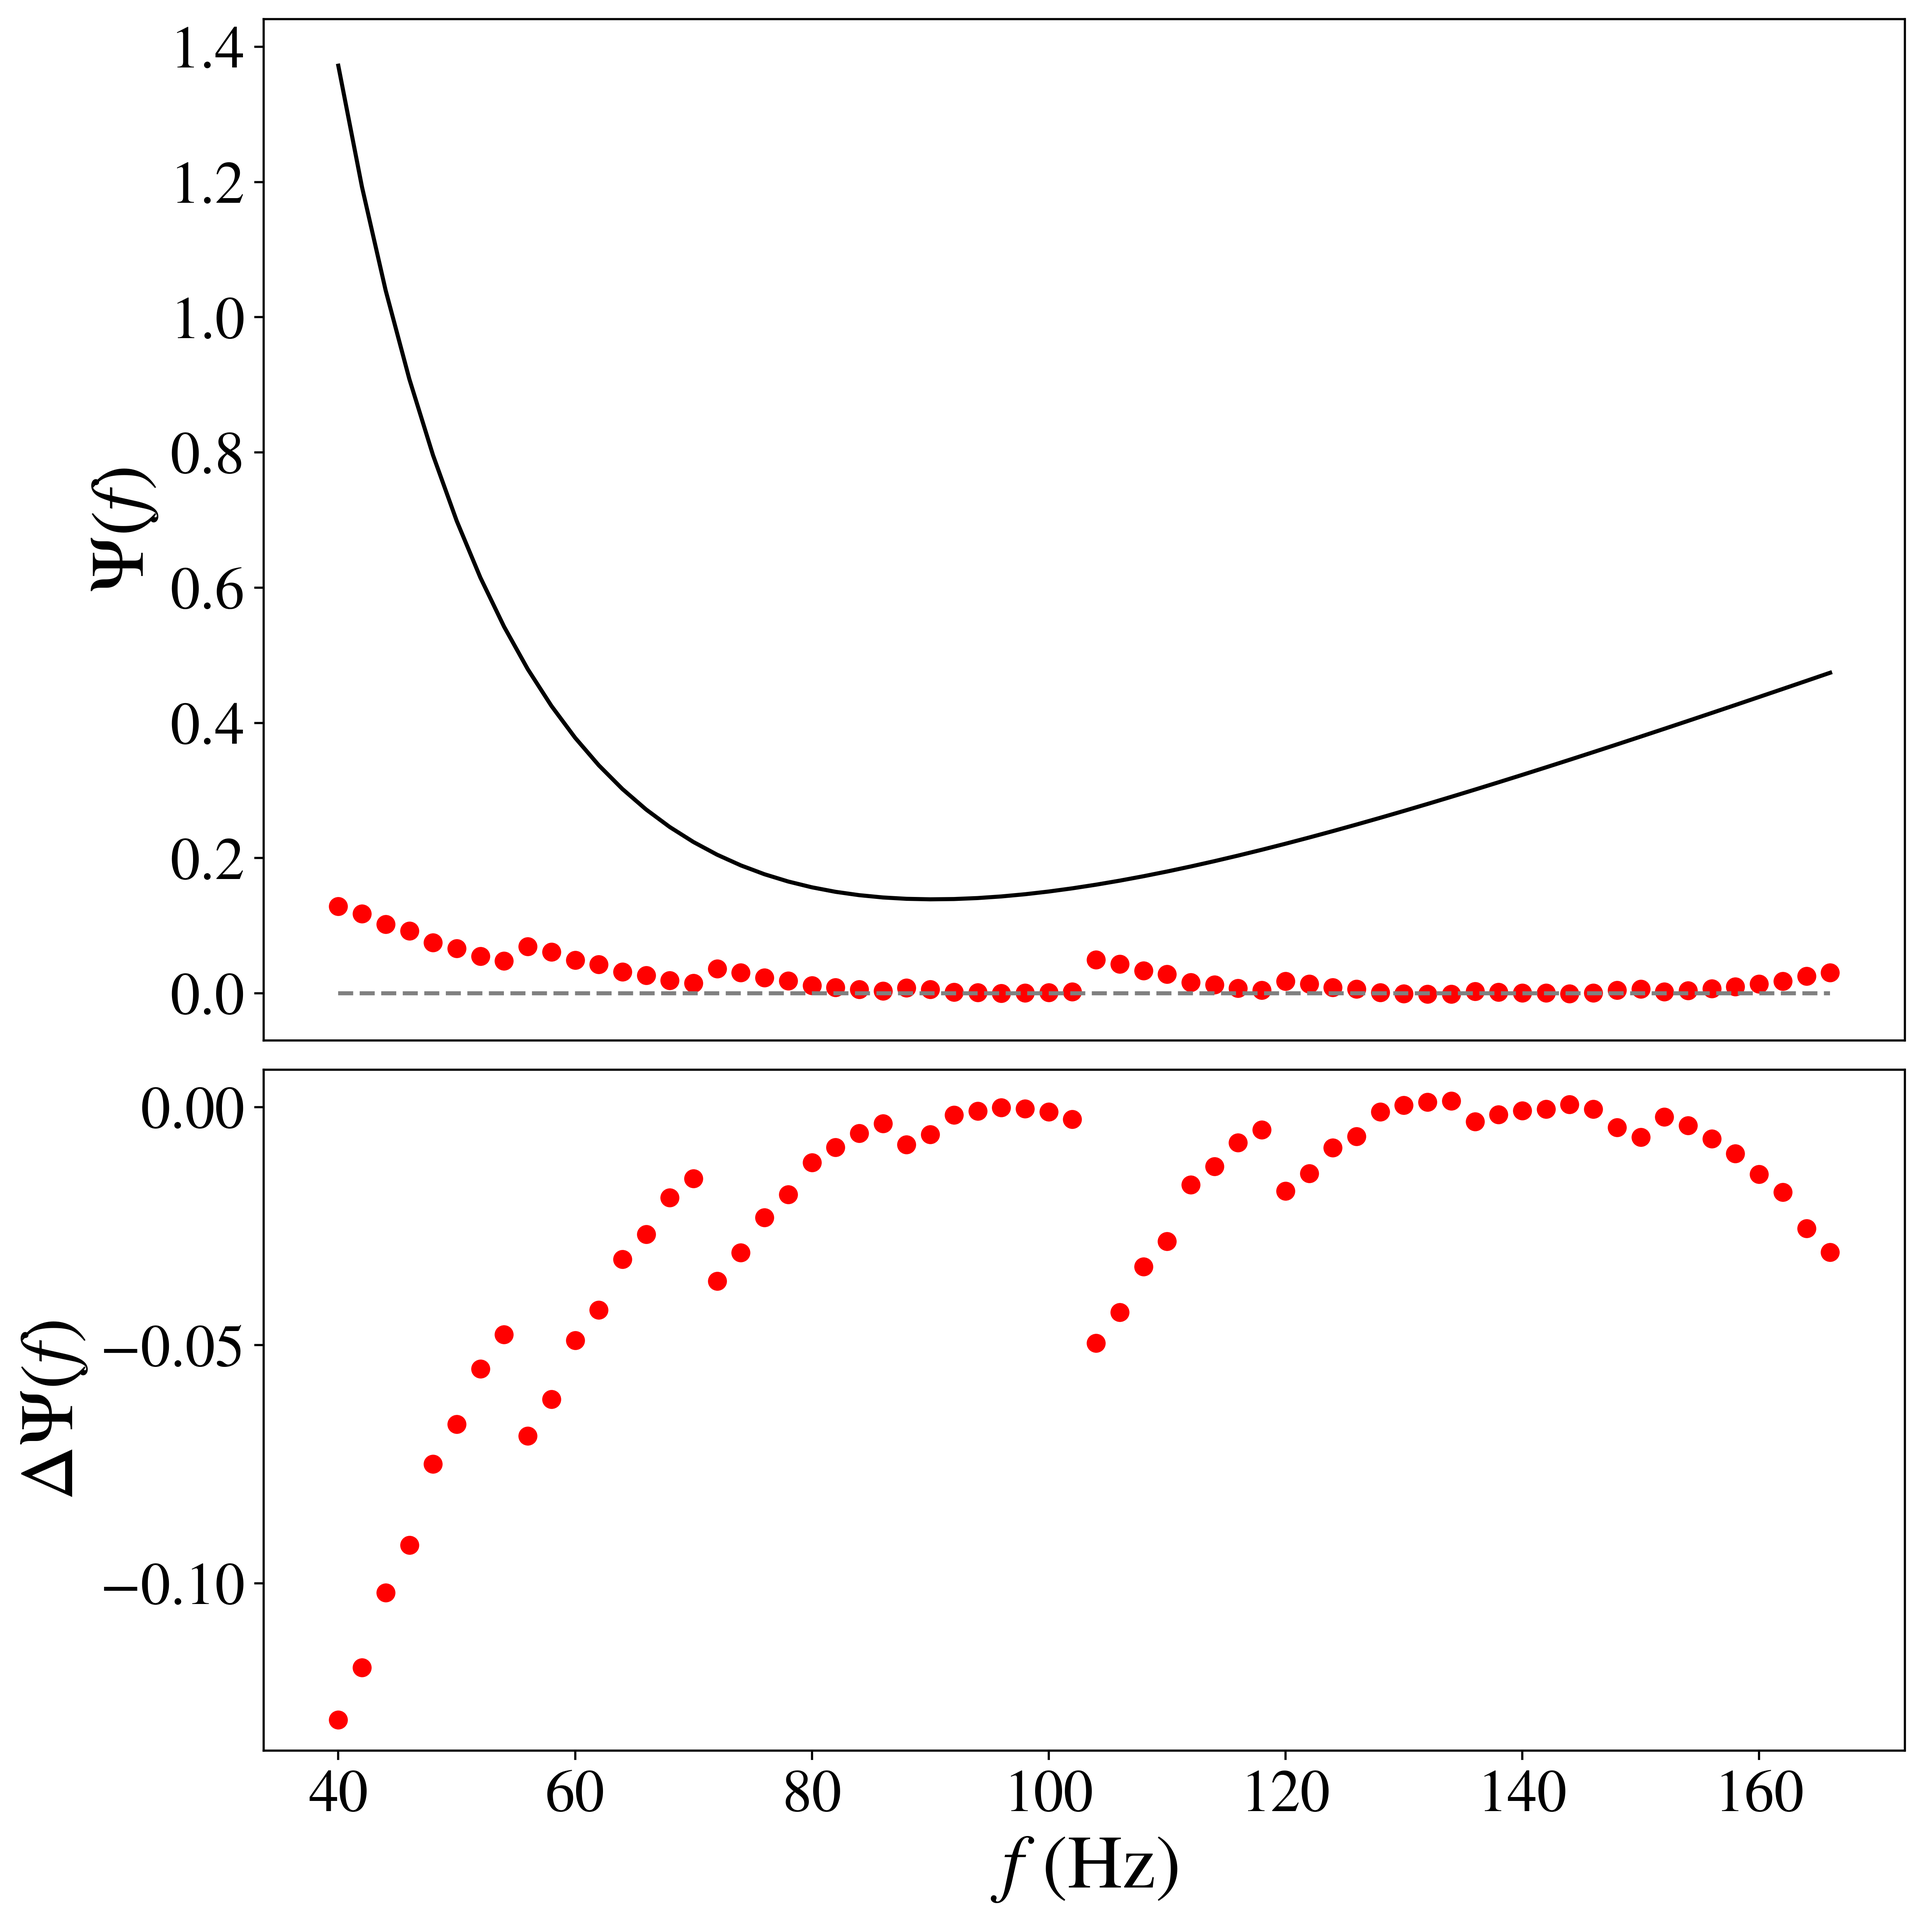
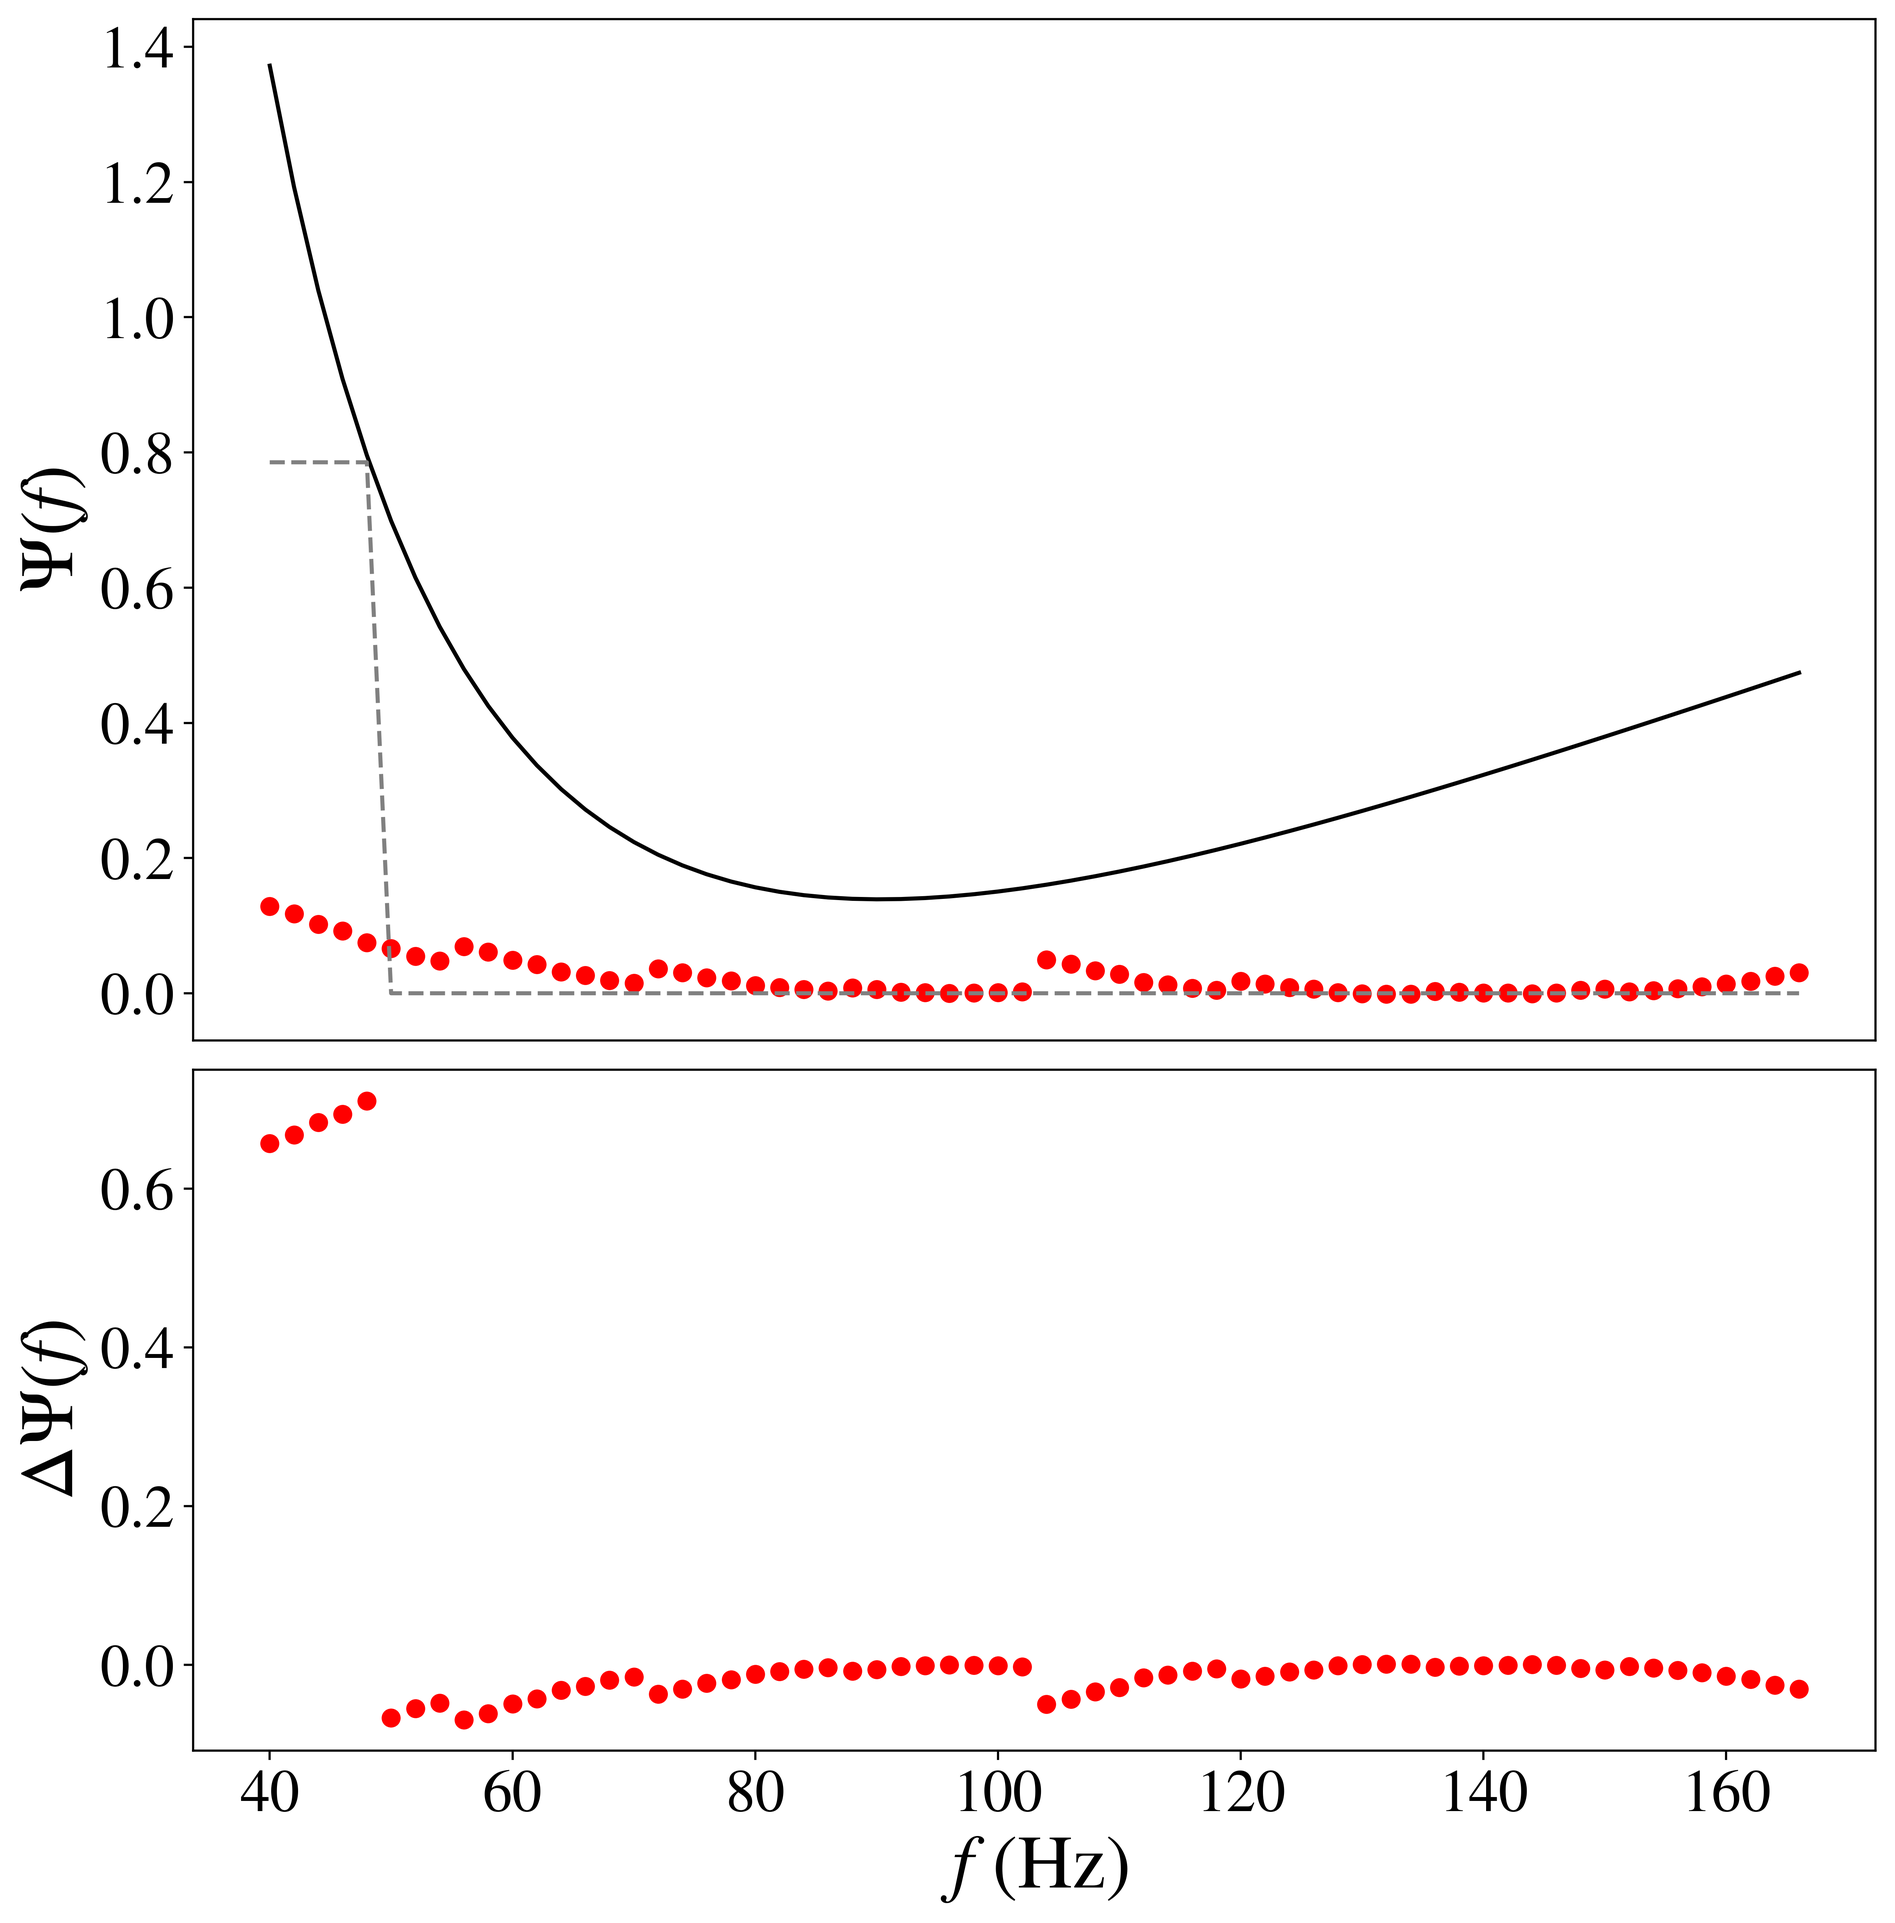
fix

diff --git a/pqcprep/plotting_tools.py b/pqcprep/plotting_tools.py
@@ -172,7 +172,7 @@ def benchmark_plots_ampl(arg_dict, show=False, pdf=False):
     x_arr = x_trans_arr(arg_dict["n"])
 
     ampl_vec = np.abs(np.load(os.path.join(DIR, "ampl_outputs", f"statevec{name_str}.npy")))
-    ampl_target = [A(i, mode=arg_dict["func_str"]) for i in x_arr]
+    ampl_target = np.array([A(i, mode=arg_dict["func_str"]) for i in x_arr])
     ampl_target /= np.sqrt(np.sum(ampl_target**2))
 
     fig, ax = plt.subplots(2, 1, figsize=figsize, gridspec_kw={'height_ratios': [1.5, 1]})
